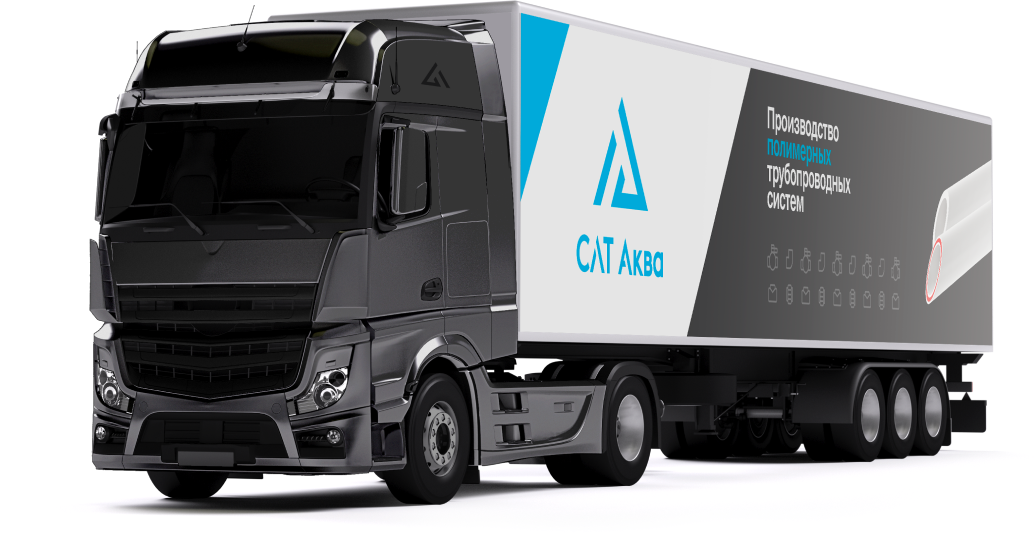
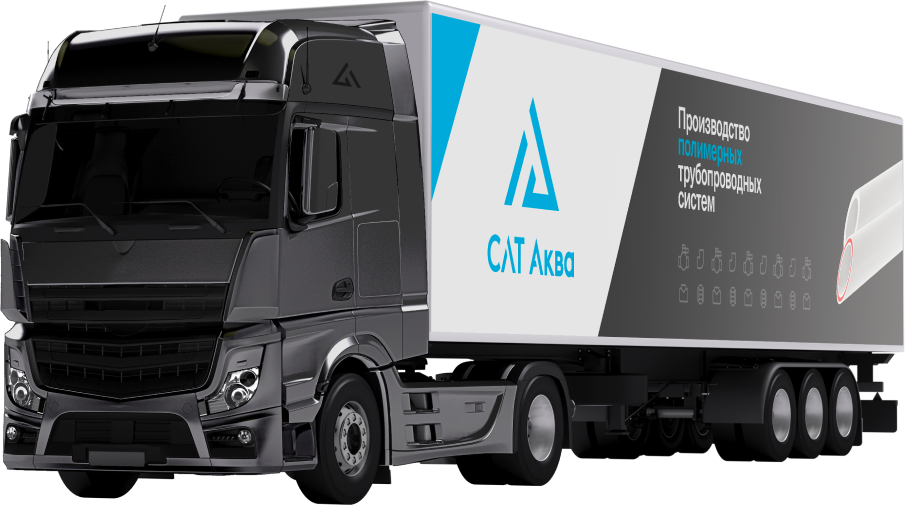
Update cooperation main page

diff --git a/src/styles/content/pages/main-page.scss b/src/styles/content/pages/main-page.scss
@@ -176,6 +176,44 @@
       height: getRem(176px);
     }
   }
+  &__cooperation-truck {
+    position: absolute;
+    z-index: -1;
+    bottom: getRem(50px);
+    right: getRem(40px);
+    @media (max-width: ($breakpoint - 1px)) {
+      bottom: getRem(97px);
+      right: 50%;
+      transform: translateX(50%);
+    }
+
+    width: getRem(904px);
+    height: getRem(505px);
+    @media (max-width: ($breakpoint - 1px)) {
+      width: getRem(267px);
+      height: getRem(149px);
+    }
+  }
+  &__cooperation-shadow {
+    position: absolute;
+    z-index: -2;
+    bottom: getRem(-8px);
+    right: getRem(-37px);
+    @media (max-width: ($breakpoint - 1px)) {
+      bottom: getRem(78px);
+      right: 50%;
+      transform: translateX(50%);
+    }
+
+    width: getRem(1094px);
+    height: getRem(344px);
+    @media (max-width: ($breakpoint - 1px)) {
+      width: getRem(324px);
+      height: getRem(102px);
+    }
+
+    mix-blend-mode: darken;
+  }
   &__cooperation-container {
     padding: getRem(50px) getRem(40px);
     @media (max-width: ($breakpoint - 1px)) {
